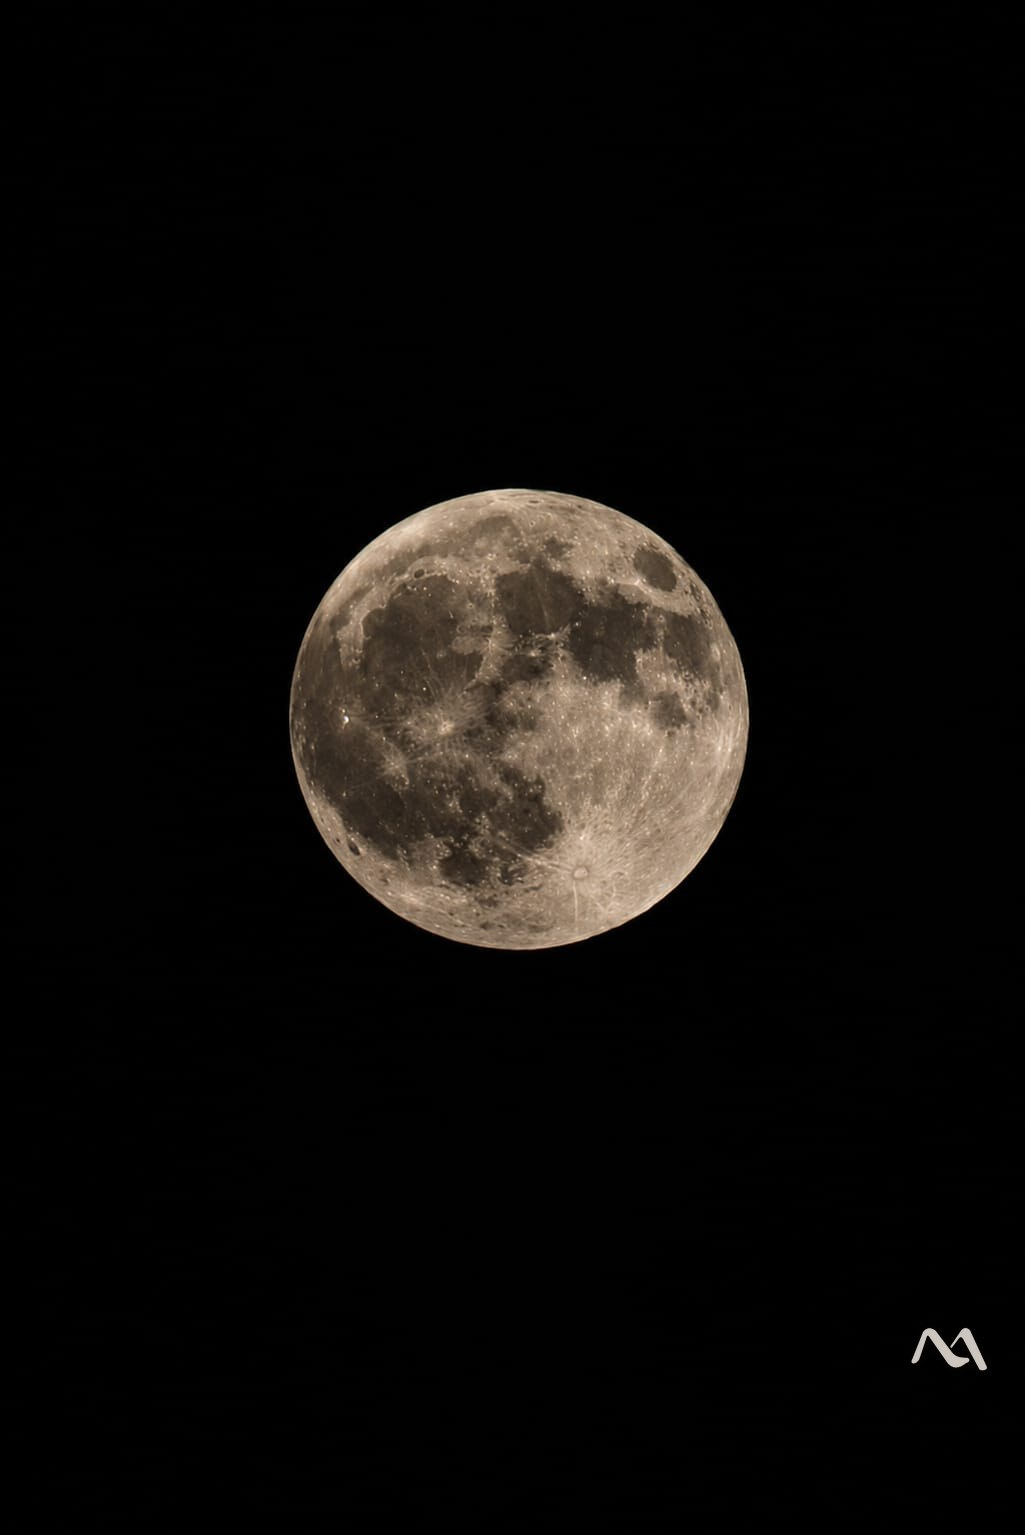
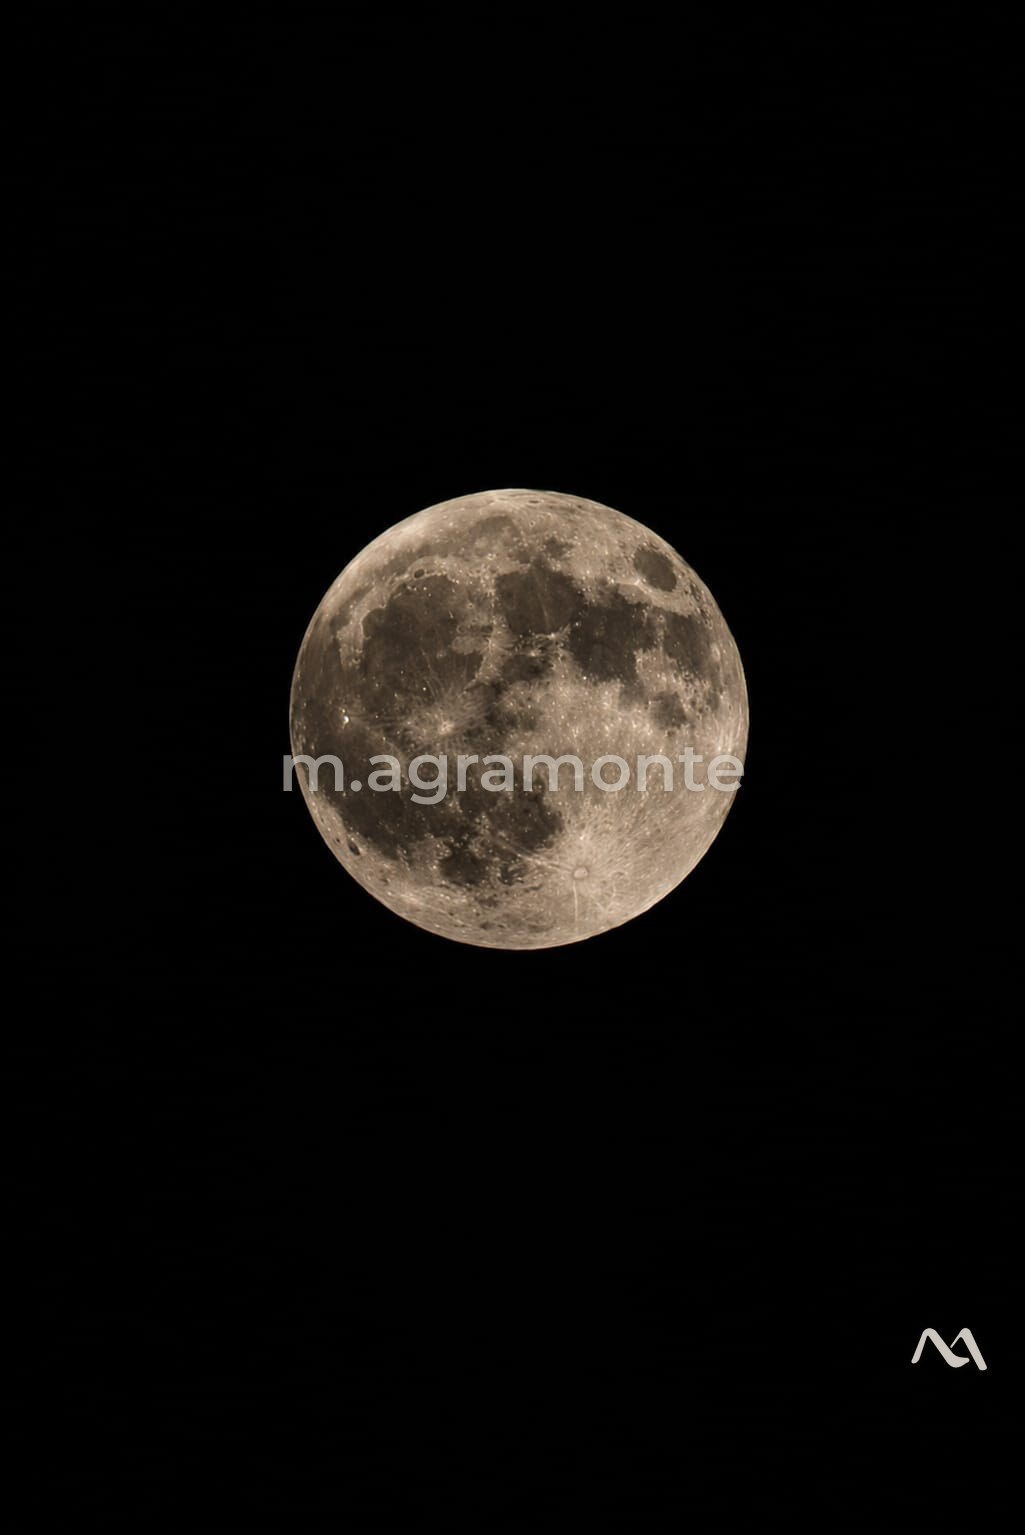
Nueve fotos nuevas y la firma m.agramonte en todas
Entran tulipanes, veleros al atardecer, un mirlo, flores blancas, tres de
Londres, un parque y un velero en el horizonte, recortadas a 4:5 y sin la
firma de la cámara. Con ellas el feed pasa a dieciséis fotos.

Todas llevan ahora, además del símbolo, «m.agramonte» translúcido en el
centro: no impide descargarlas, pero sí usarlas sin que se vea de quién
son. Lo pone herramientas/marcar_fotos.py, que también recorta, reduce y
deja cada foto por debajo de 300 KB. Las paletas las recalcula el
despliegue.

Changed region(s): [[0.2498, 0.4899, 0.718, 0.5205]]

diff --git a/herramientas/marcar_fotos.py b/herramientas/marcar_fotos.py
@@ -1,0 +1,134 @@
+#!/usr/bin/env python3
+"""Prepara una foto para el feed: recorte, tamaño, símbolo y firma.
+
+    python herramientas/marcar_fotos.py ENTRADA SALIDA [--recorte X,Y,ANCHO,ALTO] [--sin-simbolo]
+
+- Recorta la zona indicada (en píxeles de la foto original) y la deja como mucho a 1600 px
+  de lado mayor. Sin --recorte se usa la foto entera.
+- Pone el símbolo (la M de favicon.svg, en crema) abajo a la derecha, con una sombra suave
+  si esa esquina es clara. --sin-simbolo es para las fotos que ya lo llevan.
+- Escribe «m.agramonte» en el centro, translúcido. No impide descargar la foto, pero sí
+  usarla sin que se vea de quién es: para quitarlo habría que retocar el centro de la imagen.
+- Guarda un JPG sin metadatos EXIF por debajo de 300 KB.
+
+Necesita Pillow, rsvg-convert y la fuente Montserrat (variable) instalada en el sistema.
+"""
+import argparse
+import io
+import subprocess
+from pathlib import Path
+
+from PIL import Image, ImageDraw, ImageFilter, ImageFont, ImageStat
+
+LADO_MAXIMO = 1600
+PESO_MAXIMO = 300 * 1024
+CREMA = (247, 241, 232)
+FIRMA = "m.agramonte"
+
+# Medidas de las fotos que ya están en el feed, en proporción al ancho.
+ANCHO_SIMBOLO = 0.075
+MARGEN_SIMBOLO = 0.036
+ANCHO_FIRMA = 0.46
+OPACIDAD_FIRMA = 0.5
+
+FUENTE = Path("/usr/share/fonts/truetype/google-fonts/ofl/montserrat/Montserrat[wght].ttf")
+
+# Solo los dos trazos de la M de favicon.svg, sin el cuadrado naranja de fondo.
+SIMBOLO_SVG = """<svg xmlns="http://www.w3.org/2000/svg" viewBox="0 0 88 50">
+  <g fill="#F7F1E8">
+    <path d="M1.2,38.3 L13,8.3 C15.6,1.5 24.2,0.65 28.8,6.7 L46.5,30 C49.2,33.5 54.2,36.1 62,35.9 C66.2,35.8 67.2,39.6 63.6,41.2 C59.6,43.2 56.5,46.9 50.5,46.7 C46.5,46.5 43.6,44.7 41.5,41.7 L20.2,11.5 Q19,10 18,11.5 L9.8,36 C8.2,40.6 4.6,42.6 2.2,42 C0.6,41.6 0.4,40.3 1.2,38.3 Z"/>
+    <path d="M44.8,22.7 L56,6 C59.2,1.3 64.9,1 67.4,6.5 L85.4,46 C87.2,50 78.6,51.3 77,48.3 L58.8,14.5 C57.5,12.1 55.7,12 54.5,13.5 L46.2,24.3 C45.5,25 44.2,24 44.8,22.7 Z"/>
+  </g>
+</svg>"""
+
+
+def simbolo(ancho):
+    png = subprocess.run(
+        ["rsvg-convert", "-w", str(ancho), "-f", "png"],
+        input=SIMBOLO_SVG.encode(),
+        capture_output=True,
+        check=True,
+    ).stdout
+    return Image.open(io.BytesIO(png)).convert("RGBA")
+
+
+def con_sombra(capa, radio, opacidad):
+    """La capa con una sombra difusa debajo, para que la crema no se pierda sobre lo claro."""
+    alfa = capa.getchannel("A").filter(ImageFilter.GaussianBlur(radio))
+    sombra = Image.new("RGBA", capa.size, (0, 0, 0, 0))
+    sombra.putalpha(alfa.point(lambda a: int(a * opacidad)))
+    return Image.alpha_composite(sombra, capa)
+
+
+def poner_simbolo(foto):
+    ancho, alto = foto.size
+    marca = simbolo(round(ancho * ANCHO_SIMBOLO))
+    margen = round(ancho * MARGEN_SIMBOLO)
+    x, y = ancho - marca.width - margen, alto - marca.height - margen
+
+    # Mismo margen alrededor para que la sombra no se corte.
+    hueco = margen // 2
+    lienzo = Image.new("RGBA", (marca.width + 2 * hueco, marca.height + 2 * hueco), (0, 0, 0, 0))
+    lienzo.paste(marca, (hueco, hueco))
+    esquina = foto.crop((x, y, x + marca.width, y + marca.height)).convert("L")
+    if ImageStat.Stat(esquina).mean[0] > 150:
+        lienzo = con_sombra(lienzo, radio=max(2, marca.width // 18), opacidad=0.55)
+    foto.alpha_composite(lienzo, (x - hueco, y - hueco))
+
+
+def poner_firma(foto):
+    ancho, alto = foto.size
+    fuente = ImageFont.truetype(str(FUENTE), 100)
+    fuente.set_variation_by_name("SemiBold")
+    caja = fuente.getbbox(FIRMA)
+    tamano = round(100 * ancho * ANCHO_FIRMA / (caja[2] - caja[0]))
+    fuente = ImageFont.truetype(str(FUENTE), tamano)
+    fuente.set_variation_by_name("SemiBold")
+
+    capa = Image.new("RGBA", foto.size, (0, 0, 0, 0))
+    ImageDraw.Draw(capa).text(
+        (ancho / 2, alto / 2), FIRMA, font=fuente, anchor="mm",
+        fill=CREMA + (round(255 * OPACIDAD_FIRMA),),
+    )
+    # Una sombra muy suave: sin ella la firma desaparece sobre cielo o nubes.
+    foto.alpha_composite(con_sombra(capa, radio=max(2, tamano // 14), opacidad=0.45))
+
+
+def guardar(foto, destino):
+    """Baja la calidad hasta 76 y, si aún pesa demasiado, reduce la foto un 10 % y vuelve a
+    empezar: en fotos con mucho detalle (flores, hojas) bajar más la calidad se nota antes
+    que perder algo de tamaño."""
+    rgb = foto.convert("RGB")
+    while True:
+        for calidad in range(88, 75, -4):
+            buffer = io.BytesIO()
+            rgb.save(buffer, "JPEG", quality=calidad, optimize=True, progressive=True)
+            if buffer.tell() <= PESO_MAXIMO:
+                Path(destino).write_bytes(buffer.getvalue())
+                return rgb.size, calidad, buffer.tell()
+        rgb = rgb.resize((round(rgb.width * 0.9), round(rgb.height * 0.9)), Image.LANCZOS)
+
+
+def main():
+    argumentos = argparse.ArgumentParser(description=__doc__.splitlines()[0])
+    argumentos.add_argument("entrada")
+    argumentos.add_argument("salida")
+    argumentos.add_argument("--recorte", help="X,Y,ANCHO,ALTO en píxeles de la original")
+    argumentos.add_argument("--sin-simbolo", action="store_true")
+    opciones = argumentos.parse_args()
+
+    foto = Image.open(opciones.entrada).convert("RGBA")
+    if opciones.recorte:
+        x, y, w, h = (int(v) for v in opciones.recorte.split(","))
+        foto = foto.crop((x, y, x + w, y + h))
+    foto.thumbnail((LADO_MAXIMO, LADO_MAXIMO), Image.LANCZOS)
+
+    if not opciones.sin_simbolo:
+        poner_simbolo(foto)
+    poner_firma(foto)
+    (ancho, alto), calidad, peso = guardar(foto, opciones.salida)
+    print(f"{opciones.salida}: {ancho}x{alto}, calidad {calidad}, {peso // 1024} KB")
+
+
+if __name__ == "__main__":
+    main()

diff --git a/web/fotos/LEEME.md b/web/fotos/LEEME.md
@@ -1,14 +1,20 @@
 # Las fotos del feed
 
-Son siete fotos reales, hechas con el móvil: un ala de avión, una piscina de bolas, la luna,
-un cielo de noche sobre un tejado y tres de flores (margaritas naranjas, margaritas moradas y
-unas rosas teñidas). Están a 1600 px como mucho y sin metadatos EXIF. La de las
-margaritas moradas era apaisada y está recortada a 4:5, el formato de las tarjetas.
+Son dieciséis fotos reales, hechas con el móvil: flores, el mar, Londres, un mirlo, la luna,
+un ala de avión y una piscina de bolas. Están a 1600 px como mucho y sin metadatos EXIF. Las
+nuevas están recortadas a 4:5, el formato de las tarjetas, y sin la firma de la cámara.
 
-Cada una lleva mi símbolo (el de `favicon.svg`, solo la M en crema) como marca de agua en la
-esquina inferior derecha, dentro del recorte 4:5 de las tarjetas para que no se corte.
-En las fotos con esa esquina clara (las margaritas) lleva además una sombra suave
-debajo, porque la crema sobre grava blanca o piedra desaparecía.
+Cada una lleva dos marcas:
+
+- **Mi símbolo** (el de `favicon.svg`, solo la M en crema) en la esquina inferior derecha,
+  dentro del recorte 4:5 de las tarjetas para que no se corte. Si esa esquina es clara, lleva
+  una sombra suave debajo, porque la crema sobre grava blanca o cielo desaparecía.
+- **La firma «m.agramonte»** en el centro, translúcida. No impide descargar la foto, nada lo
+  hace en una web: lo que consigue es que no se pueda usar sin que se vea de quién es, porque
+  para quitarla habría que retocar el centro de la imagen.
+
+Las dos las pone [`herramientas/marcar_fotos.py`](../../herramientas/marcar_fotos.py), que
+también recorta, reduce y guarda la foto por debajo de 300 KB.
 
 ## La marca de agua entra en la paleta, y es a propósito
 
@@ -23,8 +29,14 @@ foto que ves.
 ## Cambiarlas por otras
 
 1. Borra las que sobren.
-2. Copia aquí las nuevas en **JPG o PNG** (la API no lee WebP), a 1600 px de lado
-   mayor y por debajo de 300 KB cada una.
+2. Prepara cada foto nueva con su recorte (en píxeles de la original) y déjala aquí:
+
+   ```bash
+   python herramientas/marcar_fotos.py original.jpg web/fotos/nombre.jpg --recorte X,Y,ANCHO,ALTO
+   ```
+
+   Sale en JPG, a 1600 px de lado mayor como mucho, por debajo de 300 KB y con las dos
+   marcas. Para una foto que ya tenga el símbolo, `--sin-simbolo`.
 3. Edita `fotos.json` con un objeto por foto:
 
    ```json
